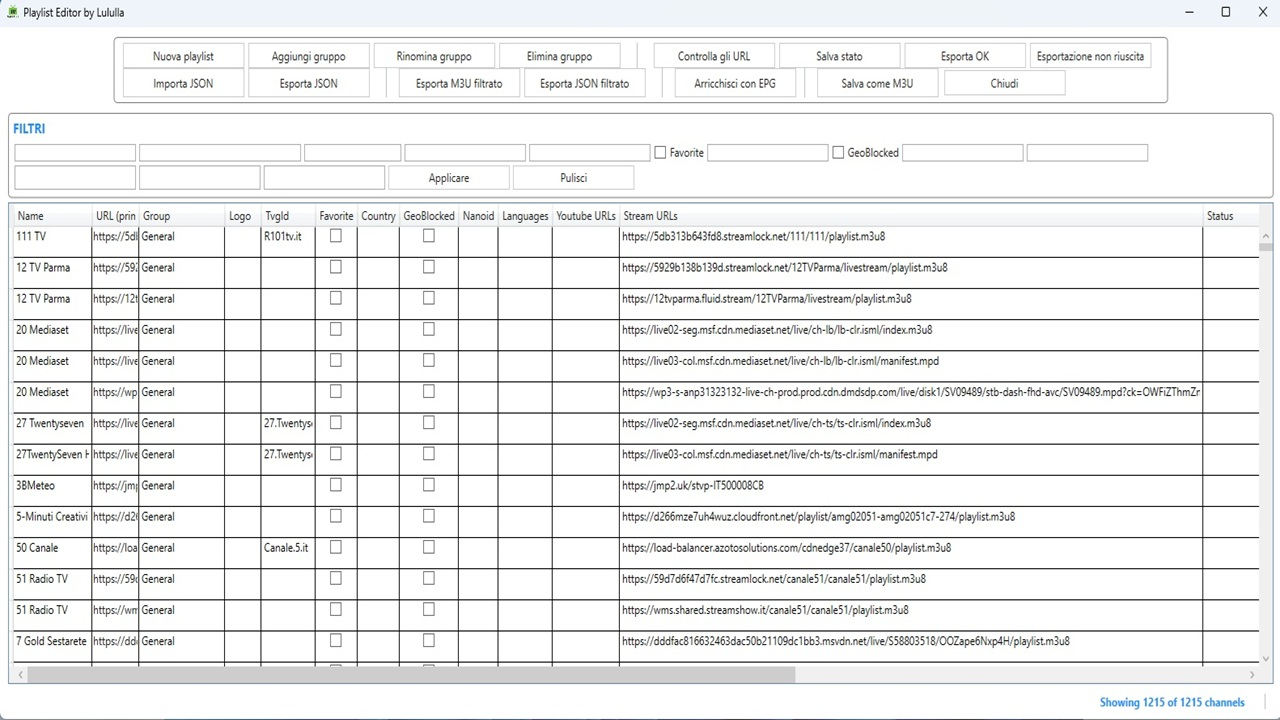
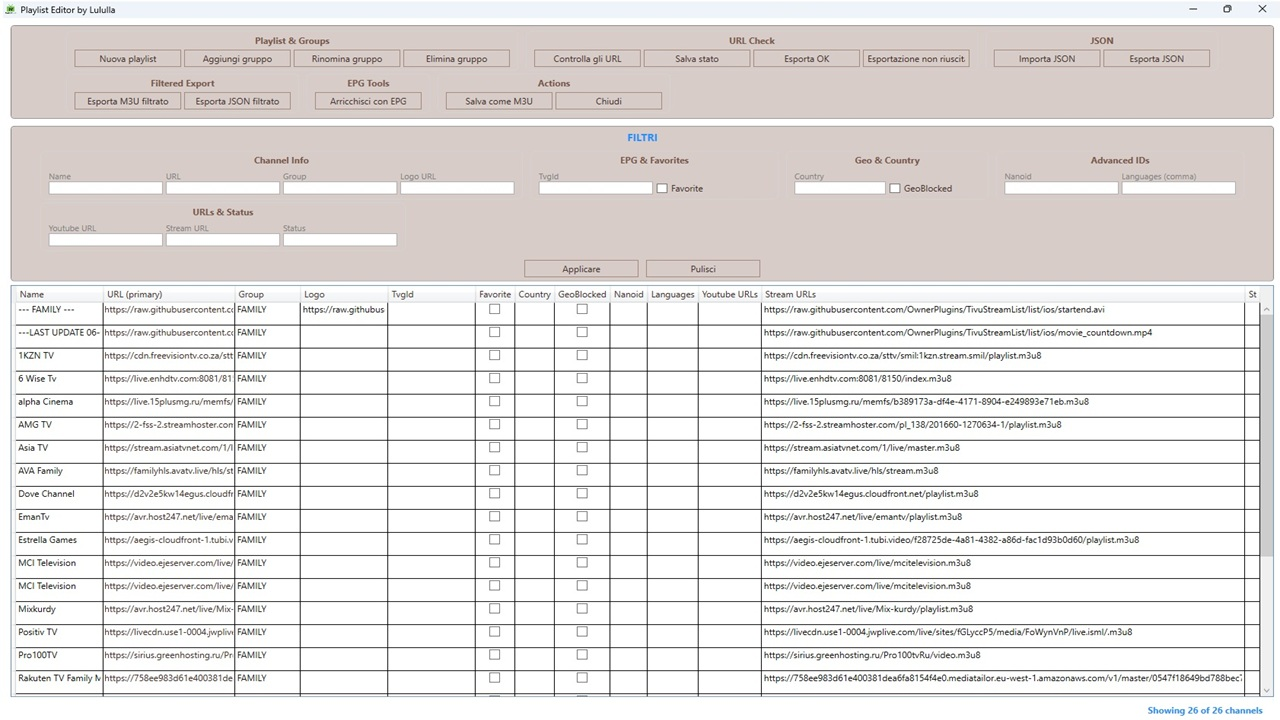
add screenshot

diff --git a/README.md b/README.md
@@ -74,6 +74,17 @@ It loads local or online M3U playlists, organizes channels by groups, and provid
       <img src="Screenshots/preview10.jpg?sanitize=true&raw=true" title="preview10" width="400"/><br/>
       <b>Preview 10</b>
     </td>
+    <td align="center">
+      <img src="Screenshots/preview11.jpg?sanitize=true&raw=true" title="preview11" width="400"/><br/>
+      <b>Preview 11</b>
+    </td>
+  </tr>
+
+  <tr>
+    <td align="center">
+      <img src="Screenshots/preview12.jpg?sanitize=true&raw=true" title="preview12" width="400"/><br/>
+      <b>Preview 12</b>
+    </td>
   </tr>
 
 </table>
